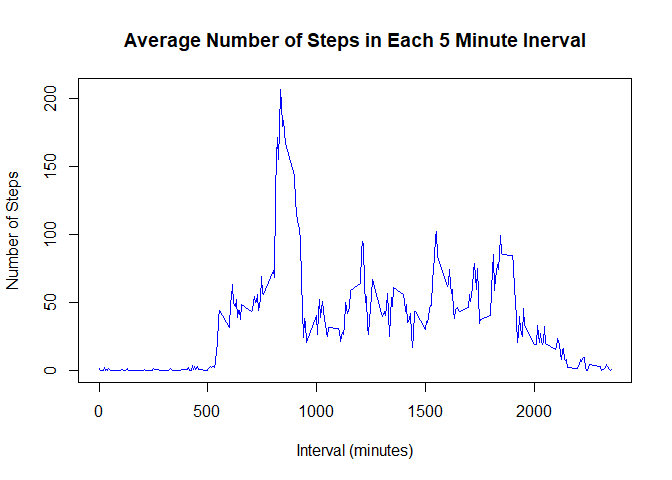
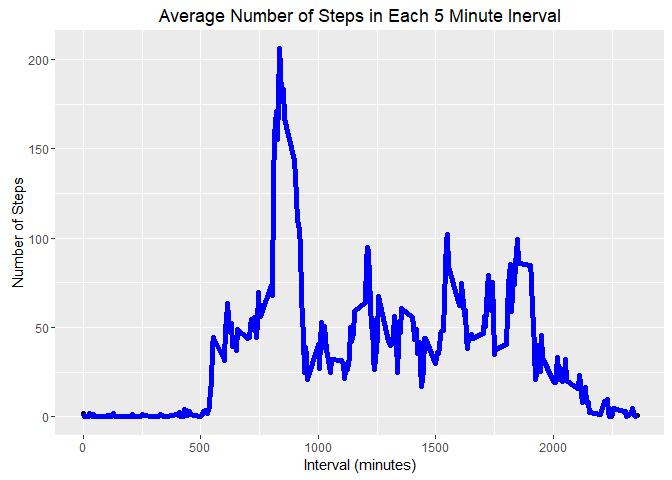
Finished differences
Wrote code to answer "Are there differences in activity patterns between weekdays and weekends?"

diff --git a/PA1_template.html b/PA1_template.html
@@ -133,6 +133,16 @@ $(document).ready(function () {
 <pre><code>## Warning: package 'knitr' was built under R version 3.3.3</code></pre>
 <pre class="r"><code>require(ggplot2)</code></pre>
 <pre><code>## Loading required package: ggplot2</code></pre>
+<pre class="r"><code>require(dplyr)</code></pre>
+<pre><code>## Loading required package: dplyr</code></pre>
+<pre><code>## 
+## Attaching package: 'dplyr'</code></pre>
+<pre><code>## The following objects are masked from 'package:stats':
+## 
+##     filter, lag</code></pre>
+<pre><code>## The following objects are masked from 'package:base':
+## 
+##     intersect, setdiff, setequal, union</code></pre>
 <pre class="r"><code>if(!file.exists(&quot;activity.csv&quot;)) {
         unzip(&quot;activity.zip&quot;)
 }
@@ -152,10 +162,11 @@ medianSteps &lt;-median(aggSteps)</code></pre>
 <div id="what-is-the-average-daily-activity-pattern" class="section level2">
 <h2>What is the average daily activity pattern?</h2>
 <pre class="r"><code>intSteps &lt;- tapply(activity$steps,activity$interval,mean,na.rm=TRUE)</code></pre>
-<pre class="r"><code>plot(names(intSteps),intSteps,type = &quot;l&quot;, col = &quot;blue&quot;, 
+<pre class="r"><code>qplot(as.numeric(names(intSteps)),intSteps, 
      xlab = &quot;Interval (minutes)&quot;, ylab = &quot;Number of Steps&quot;, 
-     main = &quot;Average Number of Steps in Each 5 Minute Inerval&quot;)</code></pre>
[1 lines of base64/hex data omitted]
+     main = &quot;Average Number of Steps in Each 5 Minute Inerval&quot;) + 
+        geom_line(col = &quot;blue&quot;, size = 2)</code></pre>
[1 lines of base64/hex data omitted]
 <pre class="r"><code>maxSteps &lt;- max(intSteps)
 maxInt &lt;- names(intSteps[which(intSteps == maxSteps)])</code></pre>
 <p>The interval with the most average steps is 835 during which an average of 206.17 are taken.</p>
@@ -191,6 +202,12 @@ medianNewSteps &lt;-median(newAggSteps)</code></pre>
 </div>
 <div id="are-there-differences-in-activity-patterns-between-weekdays-and-weekends" class="section level2">
 <h2>Are there differences in activity patterns between weekdays and weekends?</h2>
+<pre class="r"><code>newAct &lt;- mutate(newAct,
+                 weekday.type = 
+                         as.factor(
+                                 ifelse(weekdays(date) %in% 
+                                                c(&quot;Saturday&quot;,&quot;Sunday&quot;),
+                                &quot;weekend&quot;,&quot;weekday&quot;)))</code></pre>
 </div>
 
 

diff --git a/PA1_template.md b/PA1_template.md
@@ -33,6 +33,31 @@ require(ggplot2)
 ## Loading required package: ggplot2
 ```
 
+```r
+require(dplyr)
+```
+
+```
+## Loading required package: dplyr
+```
+
+```
+## 
+## Attaching package: 'dplyr'
+```
+
+```
+## The following objects are masked from 'package:stats':
+## 
+##     filter, lag
+```
+
+```
+## The following objects are masked from 'package:base':
+## 
+##     intersect, setdiff, setequal, union
+```
+
 
 ```r
 if(!file.exists("activity.csv")) {
@@ -77,9 +102,10 @@ intSteps <- tapply(activity$steps,activity$interval,mean,na.rm=TRUE)
 
 
 ```r
-plot(names(intSteps),intSteps,type = "l", col = "blue", 
+qplot(as.numeric(names(intSteps)),intSteps, 
      xlab = "Interval (minutes)", ylab = "Number of Steps", 
-     main = "Average Number of Steps in Each 5 Minute Inerval")
+     main = "Average Number of Steps in Each 5 Minute Inerval") + 
+        geom_line(col = "blue", size = 2)
 ```
 
 ![](PA1_template_files/figure-html/plotsteps-1.png)<!-- -->
@@ -161,3 +187,13 @@ there were some days where all of the values were NA and thus were summed to 0
 before. Those days will be right on the mean number of steps now.
 
 ## Are there differences in activity patterns between weekdays and weekends?
+
+```r
+newAct <- mutate(newAct,
+                 weekday.type = 
+                         as.factor(
+                                 ifelse(weekdays(date) %in% 
+                                                c("Saturday","Sunday"),
+                                "weekend","weekday")))
+```
+
